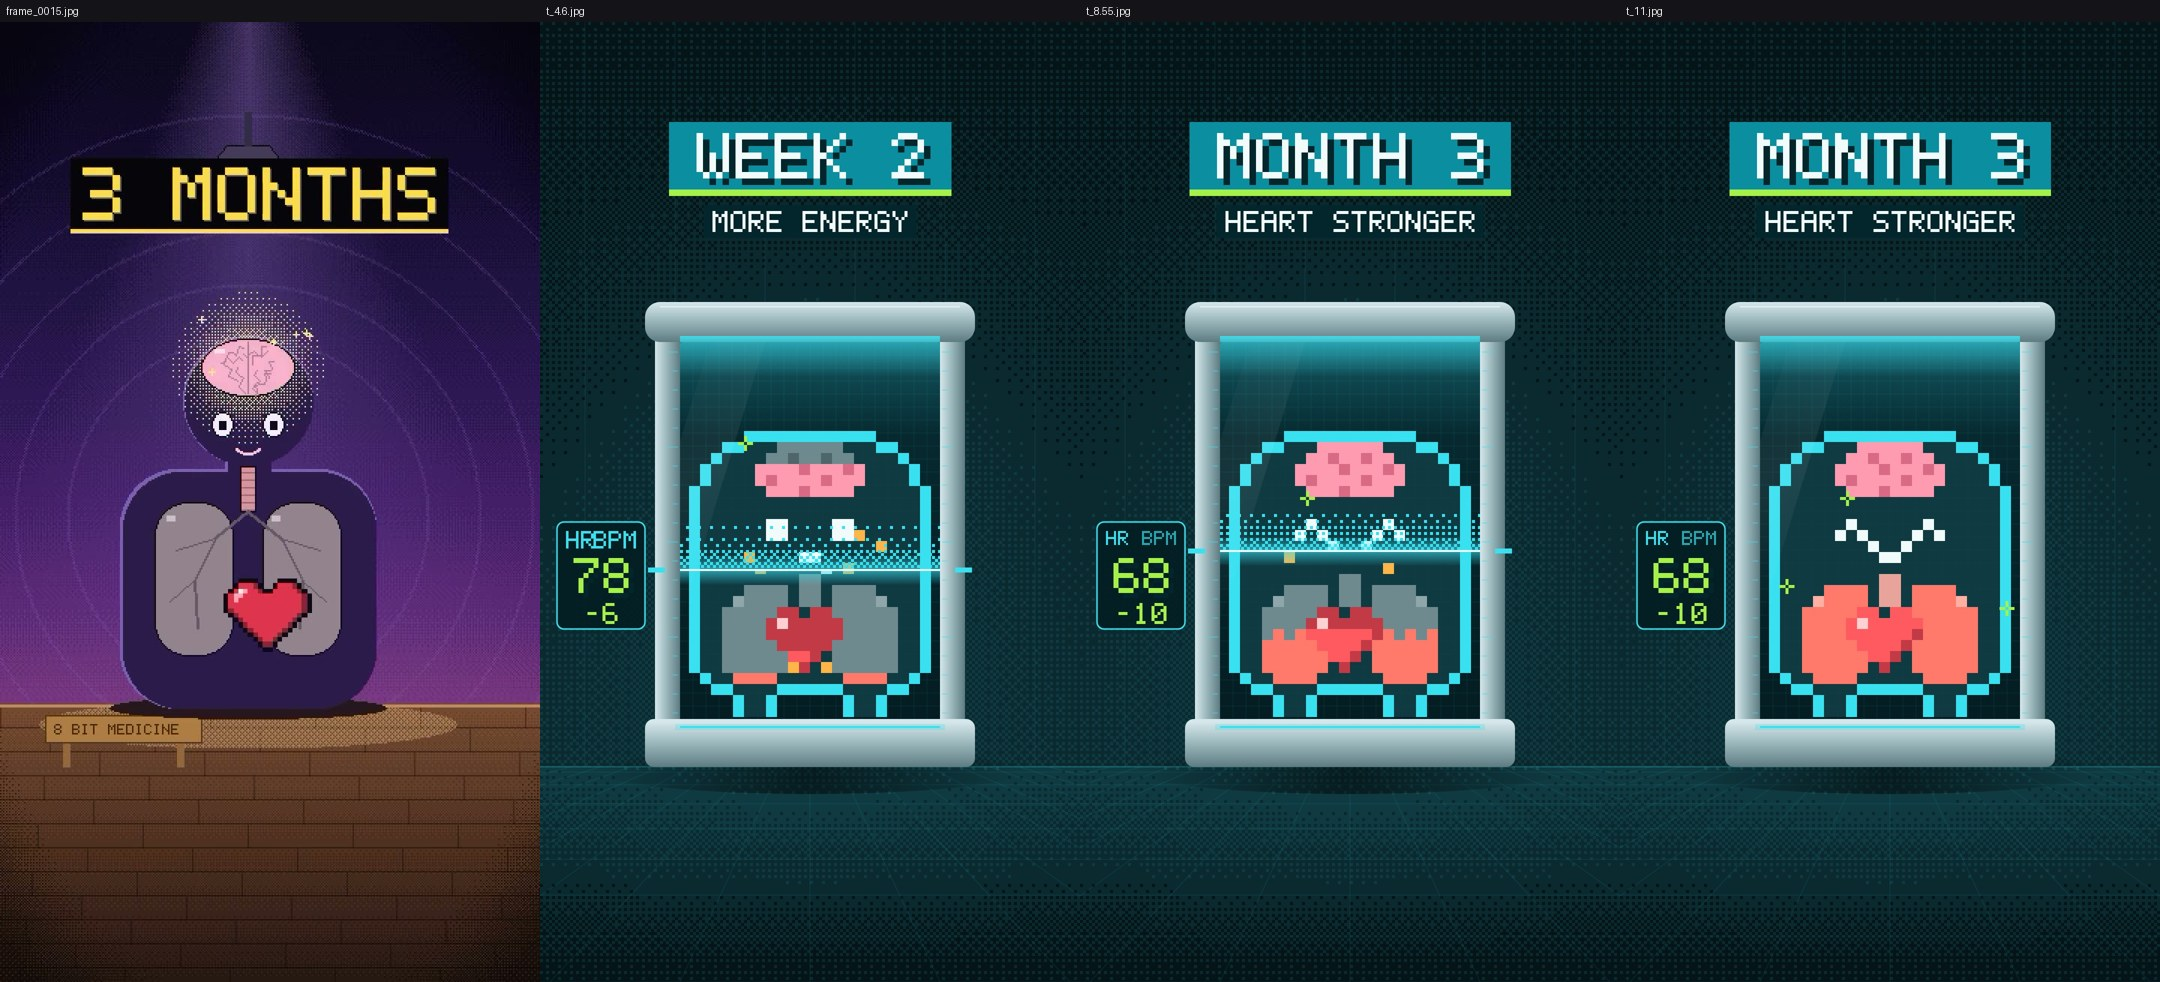
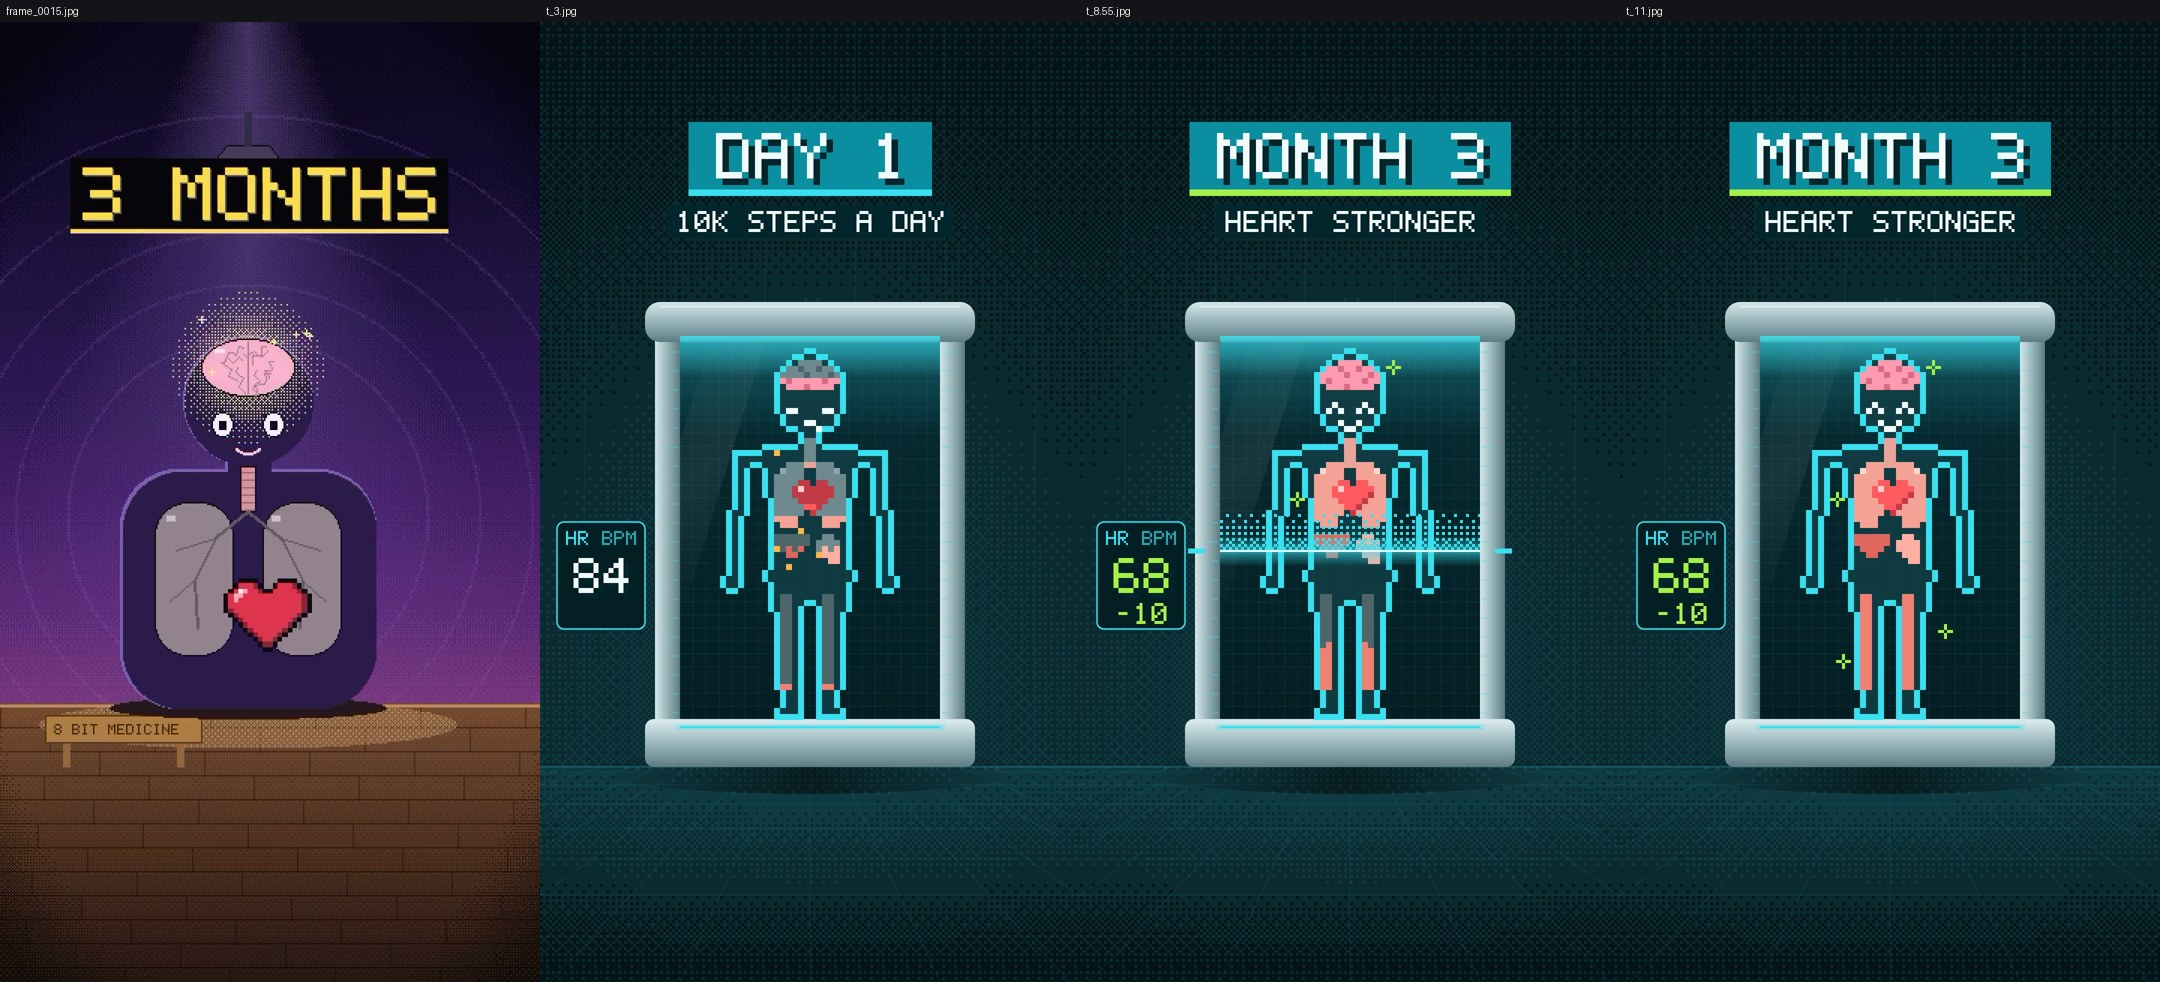
Pixel Scan: redesign Bit as a full human figure in the x-ray scan
Claude-Session: https://claude.ai/code/session_01GLiioKjCKQwiWDGFGiBjjQ

diff --git a/pixel-scan-test/bit.js b/pixel-scan-test/bit.js
@@ -1,75 +1,94 @@
-// "Bit", the Pixel Scan mascot, seen in x-ray: 22×26 cell grid, organs inside.
+// "Bit", the Pixel Scan figure: a human body seen in a full-body x-ray scan.
+// 30×62 cell grid (head, neck, shoulders, arms, torso, legs, feet), organs inside.
 import { bayer } from './pix.js';
 
 export const C = {
   body: 'rgba(18,61,69,.9)', rim: '#39E0F0', eye: '#F2FBFC',
-  lung: '#FF7A6B', lungHi: '#FFB0A3', grey: '#6F8A8E', greyD: '#4E6569',
+  lung: '#F4A196', lungHi: '#FFD6CE', grey: '#6F8A8E', greyD: '#4E6569',
   heart: '#FF5A5F', heartD: '#C23A46', heartHi: '#FFD0D2',
-  brain: '#FF9BB0', brainD: '#D86A86', amber: '#FFB547', lime: '#A6F04A',
+  brain: '#FF9BB0', brainD: '#D86A86', liver: '#E0675E', liverD: '#A9434A',
+  stomach: '#FFB0A3', muscle: '#F07F74', amber: '#FFB547', lime: '#A6F04A',
 };
-export const W = 22, H = 26;
+export const W = 30, H = 62;
 
-function inBody(c, r) {
-  const x = c + .5, y = r + .5;
-  if (r >= 24) return (c >= 4 && c <= 7) || (c >= 14 && c <= 17);       // feet
-  if (r < 0 || r > 23 || c < 0 || c > 21) return false;
-  const rt = 8, rb = 4;
-  if (y < rt && (x < rt || x > W - rt)) return Math.hypot(x - (x < rt ? rt : W - rt), y - rt) <= rt;
-  if (y > 24 - rb && (x < rb || x > W - rb)) return Math.hypot(x - (x < rb ? rb : W - rb), y - (24 - rb)) <= rb;
-  return true;
+// body geometry in cell units; x measured from the centre line
+const armX = y => 11.4 + (y - 17.5) * 0.06;
+const legX = y => 3.7 - (y - 38) * 0.03, legW = y => 3.3 - (y - 38) * 0.05;
+function torsoHW(y) {
+  if (y < 18.5) return 6 + 2.6 * Math.sqrt(Math.max(0, 1 - ((18.5 - y) / 2.6) ** 2));
+  if (y < 30) return 8.6 - (y - 18.5) * 0.17;
+  return 6.6 + (y - 30) * 0.13;
+}
+export function inBody(c, r) {
+  const x = c + .5 - W / 2, y = r + .5, ax = Math.abs(x);
+  if ((x / 6.3) ** 2 + ((y - 7.6) / 7.2) ** 2 <= 1) return true;                    // head
+  if (ax <= 2.1 && y >= 14 && y <= 17) return true;                                // neck
+  if (y >= 15.9 && y <= 38.5 && ax <= torsoHW(y)) return true;                     // torso
+  if (y >= 17.5 && y <= 40.5) {                                                    // arms + hands
+    const hw = y > 37.5 ? 1.9 : 1.55;
+    if (Math.abs(ax - armX(y)) <= hw && !(y > 40 && Math.abs(ax - armX(y)) > 1.2)) return true;
+    if (y < 19.6 && ax <= armX(y) + 1.4 && Math.hypot(Math.max(0, ax - armX(y) + 0.2), 19.6 - y) <= 2.4) return true;  // shoulder cap
+  }
+  if (y >= 38 && y <= 59.5) {                                                      // legs
+    if (Math.abs(ax - legX(y)) <= legW(y)) return true;
+    if (y < 40.5 && ax <= legX(y) + legW(y)) return true;                          // pelvis
+  }
+  if (y > 59.5 && y <= 61.6 && ax >= 1.2 && ax <= legX(59) + 3.4) return true;      // feet
+  return false;
 }
 
-const BRAIN = ['..bbbbbb..', '.bbdbbdbb.', 'bbbbdbbbdb', 'bdbbbbdbbb', '.bbbdbbbb.'];
-const LUNG = ['..oooo', '.hoooo', 'oooooo', 'oooooo', 'oooooo', 'oooooo', 'oooooo', 'oooooo', '.oooo.'];
+const BRAIN = ['...bbbb...', '.bbdbbdbb.', 'bbbbdbbbdb', 'bdbbbbbdbb', '.bbbdbbbb.'];
+const LUNG = ['..ooo', '.hooo', 'ooooo', 'ooooo', 'ooooo', 'ooooo', 'ooooo', 'ooooo', 'ooooo', 'oooo.', '.ooo.'];
 const HEART = ['.rr.rr.', 'rhrrrrr', 'rrrrrrd', '.rrrrd.', '..rrd..', '...d...'];
+const LIVER = ['llllll', 'llllll', '.llll.', '..ll..'];
+const STOMACH = ['.ss.', 'ssss', 'ssss', '.sss', '..ss'];
 const FACES = {
-  flat: { e: [[7, 8], [8, 8], [7, 9], [8, 9], [13, 8], [14, 8], [13, 9], [14, 9]], m: [[10, 10], [11, 10]] },
-  tired: { e: [[7, 9], [8, 9], [13, 9], [14, 9]], m: [[10, 10], [11, 10], [12, 11]] },
-  wide: { e: [[7, 7], [8, 7], [7, 8], [8, 8], [7, 9], [8, 9], [13, 7], [14, 7], [13, 8], [14, 8], [13, 9], [14, 9]], m: [[10, 10], [11, 10], [10, 11], [11, 11]] },
-  happy: { e: [[6, 9], [7, 8], [8, 9], [13, 9], [14, 8], [15, 9]], m: [[9, 10], [10, 11], [11, 11], [12, 10]] },
-  shut: { e: [[6, 9], [7, 9], [8, 9], [13, 9], [14, 9], [15, 9]], m: [[10, 10], [11, 10]] },
+  flat: { e: [[12, 9], [12, 10], [17, 9], [17, 10]], m: [[14, 12], [15, 12]] },
+  tired: { e: [[11, 10], [12, 10], [17, 10], [18, 10]], m: [[14, 12], [15, 12], [16, 13]] },
+  wide: { e: [[12, 8], [12, 9], [12, 10], [17, 8], [17, 9], [17, 10]], m: [[14, 12], [15, 12], [14, 13], [15, 13]] },
+  happy: { e: [[11, 10], [12, 9], [13, 10], [16, 10], [17, 9], [18, 10]], m: [[13, 12], [14, 13], [15, 13], [16, 12]] },
+  shut: { e: [[11, 10], [12, 10], [13, 10], [16, 10], [17, 10], [18, 10]], m: [[14, 12], [15, 12]] },
 };
 
-// state: { lung, heart, brain } health 0..1, face, toxins (count), seed
+// state: health 0..1 per organ { brain, lung, heart, liver, stomach, muscle }, face, toxins, seed
 // x,y = midpoint under the feet; px = cell size
-export function drawBit(ctx, { x, y, px = 16, state = {}, rim = C.rim }) {
-  const { lung = 1, heart = 1, brain = 1, face = 'flat', toxins = 0, seed = 1 } = state;
+export function drawBit(ctx, { x, y, px = 11, state = {}, rim = C.rim }) {
+  const { lung = 1, heart = 1, brain = 1, liver = 1, stomach = 1, muscle = 1, face = 'flat', toxins = 0, seed = 1 } = state;
   const ox = Math.round(x - (W * px) / 2), oy = Math.round(y - H * px);
   const cell = (c, r, col) => { ctx.fillStyle = col; ctx.fillRect(ox + c * px, oy + r * px, px, px); };
-  // silhouette + one-cell rim
   for (let r = 0; r < H; r++) for (let c = 0; c < W; c++) {
     if (!inBody(c, r)) continue;
     const edge = !inBody(c - 1, r) || !inBody(c + 1, r) || !inBody(c, r - 1) || !inBody(c, r + 1);
     cell(c, r, edge ? rim : C.body);
   }
-  // toxins: seeded single cells drifting inside the silhouette
+  // toxins first, so organs stay readable on top
   let s = seed * 9301;
   const rnd = () => (s = (s * 16807) % 2147483647) / 2147483647;
   for (let i = 0; i < toxins; i++) {
-    const c = 2 + Math.floor(rnd() * 18), r = 6 + Math.floor(rnd() * 17);
-    if (inBody(c, r)) cell(c, r, C.amber);
+    const c = 8 + Math.floor(rnd() * 14), r = 17 + Math.floor(rnd() * 20);
+    if (inBody(c - 1, r) && inBody(c + 1, r)) cell(c, r, C.amber);
   }
-  // health mixes by ordered dither, cell by cell: the change itself looks like pixels
-  const mix = (k, c, r, good, bad, top = 0, h = 1) => (k > (1 - (r - top + .5) / h) * .92 + bayer(c, r) * .08 ? good : bad);
-  BRAIN.forEach((row, r) => [...row].forEach((ch, c) => {
+  // healing fills each organ from the bottom up
+  const mix = (k, c, r, good, bad, top, h) => (k > (1 - (r - top + .5) / h) * .92 + bayer(c, r) * .08 ? good : bad);
+  const organ = (rows, c0, r0, k, pal) => rows.forEach((row, r) => [...row].forEach((ch, c) => {
     if (ch === '.') return;
-    const cc = c + 6, rr = r + 1;
-    cell(cc, rr, ch === 'd' ? mix(brain, cc, rr, C.brainD, C.greyD, 1, 5) : mix(brain, cc, rr, C.brain, C.grey, 1, 5));
+    const [good, bad] = pal[ch]; const cc = c0 + c, rr = r0 + r;
+    cell(cc, rr, bad == null ? good : mix(k, cc, rr, good, bad, r0, rows.length));
   }));
-  for (let r = 13; r <= 15; r++) { cell(10, r, mix(lung, 10, r, '#E8A39A', C.grey, 13, 10)); cell(11, r, mix(lung, 11, r, '#E8A39A', C.grey, 13, 10)); }
-  for (const side of [0, 1]) LUNG.forEach((row, r) => [...row].forEach((ch, c) => {
-    if (ch === '.') return;
-    const cc = side ? 18 - c : c + 3, rr = r + 14;
-    cell(cc, rr, ch === 'h' ? mix(lung, cc, rr, C.lungHi, '#8FA7AB', 14, 9) : mix(lung, cc, rr, C.lung, C.grey, 14, 9));
-  }));
-  HEART.forEach((row, r) => [...row].forEach((ch, c) => {
-    if (ch === '.') return;
-    const cc = c + 7, rr = r + 16;
-    cell(cc, rr, ch === 'h' ? C.heartHi : ch === 'd' ? C.heartD : mix(heart, cc, rr, C.heart, C.heartD, 16, 6));
-  }));
+  organ(BRAIN, 10, 2, brain, { b: [C.brain, C.grey], d: [C.brainD, C.greyD] });
+  for (let r = 15; r <= 19; r++) for (const c of [14, 15]) cell(c, r, mix(lung, c, r, '#E8A39A', C.grey, 14, 6));
+  organ(LUNG, 9, 19, lung, { o: [C.lung, C.grey], h: [C.lungHi, '#8FA7AB'] });
+  organ(LUNG.map(row => [...row].reverse().join('')), 16, 19, lung, { o: [C.lung, C.grey], h: [C.lungHi, '#8FA7AB'] });
+  organ(HEART, 12, 22, heart, { r: [C.heart, C.heartD], h: [C.heartHi], d: [C.heartD] });
+  organ(LIVER, 9, 31, liver, { l: [C.liver, C.greyD] });
+  organ(STOMACH, 16, 31, stomach, { s: [C.stomach, C.grey] });
+  // leg muscles: a two-cell strip down each thigh and calf
+  for (let r = 41; r <= 56; r++) for (const side of [-1, 1]) {
+    const cx = W / 2 + side * legX(r + .5);
+    for (const c of [Math.floor(cx - 1), Math.floor(cx)]) if (inBody(c - 1, r) && inBody(c + 1, r)) cell(c, r, mix(muscle, c, r, C.muscle, C.greyD, 41, 16));
+  }
   const f = FACES[face] || FACES.flat;
-  for (const [c, r] of f.e) cell(c, r, C.eye);
-  for (const [c, r] of f.m) cell(c, r, C.eye);
+  for (const [c, r] of [...f.e, ...f.m]) cell(c, r, C.eye);
   return { ox, oy, w: W * px, h: H * px };
 }
 

diff --git a/pixel-scan-test/main.js b/pixel-scan-test/main.js
@@ -6,9 +6,9 @@ import { buildLab, glassSheen, BOOTH, FW, FH } from './lab.js';
 
 const BAR = 2;
 const MS = [ // milestones: bars, title, subline, body state, readout
-  { bars: 2, title: 'DAY 1', sub: '10K STEPS A DAY', s: { lung: .15, heart: .3, brain: .35, face: 'tired', toxins: 22 }, hr: 84, dir: 0 },
-  { bars: 2, title: 'WEEK 2', sub: 'MORE ENERGY', s: { lung: .5, heart: .6, brain: .6, face: 'flat', toxins: 9 }, hr: 78, dir: 1 },
-  { bars: 2, title: 'MONTH 3', sub: 'HEART STRONGER', s: { lung: 1, heart: 1, brain: 1, face: 'happy', toxins: 0 }, hr: 68, dir: 1 },
+  { bars: 2, title: 'DAY 1', sub: '10K STEPS A DAY', s: { lung: .2, heart: .3, brain: .35, liver: .4, stomach: .5, muscle: .1, face: 'tired', toxins: 16 }, hr: 84, dir: 0 },
+  { bars: 2, title: 'WEEK 2', sub: 'MORE ENERGY', s: { lung: .5, heart: .6, brain: .6, liver: .7, stomach: .8, muscle: .5, face: 'flat', toxins: 7 }, hr: 78, dir: 1 },
+  { bars: 2, title: 'MONTH 3', sub: 'HEART STRONGER', s: { lung: 1, heart: 1, brain: 1, liver: 1, stomach: 1, muscle: 1, face: 'happy', toxins: 0 }, hr: 68, dir: 1 },
 ];
 let acc = 0; for (const m of MS) { m.t0 = acc; acc += m.bars * BAR; }
 window.DUR = acc;
@@ -49,7 +49,7 @@ window.render = (t) => {
   ctx.drawImage(LAB, 0, 0);
   // beat idle: one-cell squash on every beat (pixel layers step on twos)
   const tq = Math.floor(t * 15) / 15, beat = (tq % 0.5) / 0.5;
-  const px = 22, bob = beat < 0.2 ? px : 0, footY = B.glassY1 - 10;
+  const px = 12, bob = beat < 0.2 ? px : 0, footY = B.glassY1 - 4;
   const bit = st => drawBit(ctx, { x: (B.gx0 + B.gx1) / 2, y: footY + bob * 0, px, state: { ...st, seed: 3 } });
   ctx.save(); ctx.beginPath(); ctx.rect(B.gx0, B.glassY0, B.gx1 - B.gx0, gh); ctx.clip();
   if (p < 1) {
@@ -73,8 +73,8 @@ window.render = (t) => {
   glassSheen(ctx);
   // sparkles on healed parts once revealed
   if (m.dir > 0) {
-    const sx = (B.gx0 + B.gx1) / 2, by = footY - 26 * px;
-    for (const [dx, dy] of [[-9.5, 14], [10.5, 16], [-4, 6]]) {
+    const sx = (B.gx0 + B.gx1) / 2, by = footY - 62 * px;
+    for (const [dx, dy] of [[-9, 25], [9, 47], [-8, 52], [7, 3]]) {
       const y = by + dy * px; if (y < ys) sparkle(ctx, sx + dx * px, y, 6);
     }
   }

diff --git a/pixel-scan-test/style/STYLE.md b/pixel-scan-test/style/STYLE.md
@@ -3,7 +3,7 @@
 Made from a blank page; techniques from Mascot Screencast (living-screencast) in Lemo-Opuscar.
 Default size: 1080×1920.
 
-> A vertical health-timeline explainer: a big-pixel mascot stands in a smooth, hi-res x-ray scanner, and every milestone ("20 MIN", "DAY 3", "1 YEAR") sweeps a scanline down the glass to reveal how its insides have changed. Chiptune at 120 BPM; every cut lands on a bar line.
+> A vertical health-timeline explainer: a big-pixel human figure stands in a smooth, hi-res x-ray scanner, and every milestone ("20 MIN", "DAY 3", "1 YEAR") sweeps a scanline down the glass to reveal how its insides have changed. Chiptune at 120 BPM; every cut lands on a bar line.
 > References (grammar only):
 > - **"Here's what happens to your body" timeline reels:** one subject, one set, a time label per beat, a visible change per beat.
 > - **Medical imaging UI:** scan bars, calibration ticks, readouts at the edge of the glass.
@@ -15,20 +15,20 @@ A 30–60 s vertical film about what changes in the body over time after one hab
 
 ## 1. Essence, and what it is not
 
-- **Two resolutions.** The world is smooth and hi-res: the scanner booth, its glass, its glow, the lab. The mascot, its organs, its props and all type are **big square pixels** on one grid. The clash is the look.
-- **One set, one subject.** The camera never leaves the lab. The mascot stays in the scanner; the scanner glass shows it in x-ray: a dark silhouette with a cyan rim and its organs inside.
+- **Two resolutions.** The world is smooth and hi-res: the scanner booth, its glass, its glow, the lab. The figure, its organs, its props and all type are **big square pixels** on one grid. The clash is the look.
+- **One set, one body.** The camera never leaves the lab. **Bit is a human figure** (head, neck, shoulders, arms, torso, legs, feet), standing front-on in the scanner like a full-body scan. The glass shows Bit in x-ray: a dark silhouette with a cyan rim and its organs inside. It is the viewer's own body: generic, no gender, age or skin markers.
 - **A milestone = a time label + one visible change.** Each beat titles a moment in time and changes one thing inside the body (an organ's colour, a particle cloud clearing, a meter filling, the mascot's face).
 - **The scan sweep is the cut.** A new milestone never just appears: a cyan scanline sweeps down the glass on the downbeat, and the new state is behind it.
 - **The picture and the score are one timeline.** 120 BPM, one bar = 2 s; every milestone lasts a whole number of bars and starts on a bar line.
 
-Not Mascot Screencast (no product UI, no cursor, no window recording), not a pixel-art game (the booth and lab are hi-res and smooth; only the mascot, organs, props and type are pixels), not a medical animation (no realistic anatomy: organs are simple pixel icons), not the purple glass-body reels (no transparent human figure on a stage, no purple/yellow).
+Not Mascot Screencast (no product UI, no cursor, no window recording), not a pixel-art game (the booth and lab are hi-res and smooth; only the figure, organs, props and type are pixels), not a medical animation (no realistic anatomy: organs are simple pixel icons), not the purple glass-body reels (no limbless bottle-shaped figure on a stage, no purple/yellow: a full human body in a scanner).
 
 ## 2. Materials & rendering
 
 - **Canvas 2D at 1080×1920.** Hi-res layer: anti-aliased vector shapes with soft gradients and real shadows (the booth's metal frame, glass, light strip, platform, side ticks).
-- **Pixel grid is sacred.** Mascot, organs, props (sparkles, particles, Zs, hearts) and all type share one square-pixel size per shot (default 14 px for the mascot, 6–12 px for type). Pixel positions snap to the grid; scaling is nearest-neighbour; no anti-aliasing on pixel layers.
+- **Pixel grid is sacred.** Figure, organs, props (sparkles, particles, Zs, hearts) and all type share one square-pixel size per shot (default 12 px for the figure on a 30×62 grid, 4–13 px for type). Pixel positions snap to the grid; scaling is nearest-neighbour; no anti-aliasing on pixel layers.
 - **Ordered dither (4×4 Bayer)** for every gradient and glow in the room: the back wall, the floor, the halo around the booth, the glow around an organ. Dither cells are 6 px. The booth's own metal is the only smooth gradient.
-- **X-ray body**: the mascot's silhouette is filled deep teal at ~85 % with a one-pixel cyan rim; organs inside are opaque pixel icons. A faint cyan grid sits on the glass behind it.
+- **X-ray body**: Bit's silhouette is filled deep teal at ~90 % with a one-pixel cyan rim; organs inside are opaque pixel icons in fixed places: brain (head), windpipe and lungs, heart (in front of the lungs, the brightest red), liver and stomach (upper belly), and a muscle strip down each leg. Add another organ (kidneys, gut, skin, bones) only as a simple icon in its real place. Health changes fill each organ from the bottom up, grey to colour. A faint cyan grid sits on the glass behind it.
 - **The lab**: dithered teal back wall with faint panel seams, a dithered floor with tile lines, the booth centred, its base on the floor line at about 78 % of the frame height.
 - **Pre-render static layers** (wall, floor, booth) once to offscreen canvases; draw only what moves per frame.
 
@@ -39,7 +39,7 @@ Not Mascot Screencast (no product UI, no cursor, no window recording), not a pix
 | Room, darkest → lightest | `#041417` `#0A2A30` `#0F3A41` |
 | Scanner glow, rim, scanline | cyan `#39E0F0`, deep cyan `#0B8EA0` |
 | Type | white `#F2FBFC` with a 1-cell `#03262C` drop shadow |
-| Organs, healthy | coral `#FF7A6B`, heart `#FF5A5F` / `#C23A46`, brain `#FF9BB0` |
+| Organs, healthy | lungs `#F4A196`, heart `#FF5A5F` / `#C23A46` (always the strongest red), brain `#FF9BB0`, liver `#E0675E`, stomach `#FFB0A3`, muscle `#F07F74` |
 | Organs, harmed | grey `#6F8A8E` / `#4E6569` |
 | **Healed / good news** | lime `#A6F04A`, used for nothing else |
 | Warning / setback | amber `#FFB547`, used for nothing else |
@@ -59,7 +59,7 @@ Not Mascot Screencast (no product UI, no cursor, no window recording), not a pix
 ## 5. Motion quality
 
 - 30 fps. Pixel layers step on twos (15 fps) and snap to the grid; the camera, glows and scanline move smoothly every frame.
-- **Mascot idle**: a one-pixel squash on every beat, irregular blinks. Faces carry the acting: `flat`, `tired`, `wide`, `happy`, `shut`, `sleep`.
+- **Figure idle**: a one-pixel breath on every beat, irregular blinks. The face carries the acting: `flat`, `tired`, `wide`, `happy`, `shut`.
 - Organ changes happen behind the scanline, never as fades.
 - Particles (toxins, plaque, sugar) are single pixels or 2×2 blocks drifting on a seeded path; they clear in bursts on beats.
 - Readouts count and fill in steps on beats (one step per beat or half-beat).
@@ -105,11 +105,12 @@ The scan sweep is in every film; the others are a menu.
 - Unverified health claims → every milestone fact goes in `FACTS.md` with a source; prefer ranges ("2–12 weeks").
 - Titles too long for the bar → 2–4 words; move detail to the subline or a readout.
 - Realistic anatomy creeping in → organs stay simple pixel icons.
+- The figure drifting back into a blob or mascot → always a full human silhouette with arms and legs; it is the viewer's body.
 - Dither on the booth's metal makes it read as pixel art → only the room is dithered.
 
 ## 10. Engine
 
-In `demo/`: `font.js` (5×7 pixel font: `drawText`), `pix.js` (Bayer dither fills, pixel-grid drawing), `bit.js` (the mascot "Bit": silhouette grid, faces, organ icons and their states), `lab.js` (the room and the scanner booth, pre-rendered), `main.js` (page contract, timeline of milestones in bars, scan sweep, title bar, readouts, camera). Techniques from `$LIB/styles/living-screencast/demo/` (pixel sprite grid) and `$LIB/styles/game-show/demo/` (score generated from the picture's timeline).
+In `demo/`: `font.js` (5×7 pixel font: `drawText`), `pix.js` (Bayer dither fills, pixel-grid drawing), `bit.js` (the human figure "Bit": 30×62 body grid, faces, organ icons and their health states), `lab.js` (the room and the scanner booth, pre-rendered), `main.js` (page contract, timeline of milestones in bars, scan sweep, title bar, readouts, camera). Techniques from `$LIB/styles/living-screencast/demo/` (pixel sprite grid) and `$LIB/styles/game-show/demo/` (score generated from the picture's timeline).
 
 ## 11. Variation space
 

diff --git a/pixel-scan-test/style/CHANGES.md b/pixel-scan-test/style/CHANGES.md
@@ -5,7 +5,7 @@ Made from a blank page. Technique base: Mascot Screencast (`living-screencast`).
 | Section | Base | Now | Why |
 |---|---|---|---|
 | Size / use | 1920×1080 software walkthrough, 45–75 s | 1080×1920 health timeline, 30–60 s, Reels/TikTok | Vertical feed; the user's format |
-| §1 Essence | low-res mascot inside a hi-res product UI | low-res pixel mascot inside a smooth hi-res x-ray scanner; its organs change per milestone | Keeps the two-resolution clash, applied to the body |
+| §1 Essence | low-res mascot inside a hi-res product UI | low-res pixel human figure ("Bit", full body) inside a smooth hi-res x-ray scanner; its organs change per milestone | Keeps the two-resolution clash, applied to the body |
 | §2 Materials | HTML/CSS/SVG UI, mascot on DOM edges | Canvas 2D; hi-res booth and glass; pixel mascot, organs and type; 4×4 Bayer dither on room gradients and glows | Retro texture without losing the smooth world (dither from pixel-rpg) |
 | §3 Colour | the product's colours | teal-black lab, cyan scanner, coral organs; lime = healed, amber = setback, reserved | Reads at a glance in the feed; direction by colour |
 | §4 Type | product fonts, caption pills | one 5×7 pixel font drawn in code; milestone title on a deep-cyan bar with cyan underline | Game-like titles, no font licence |
